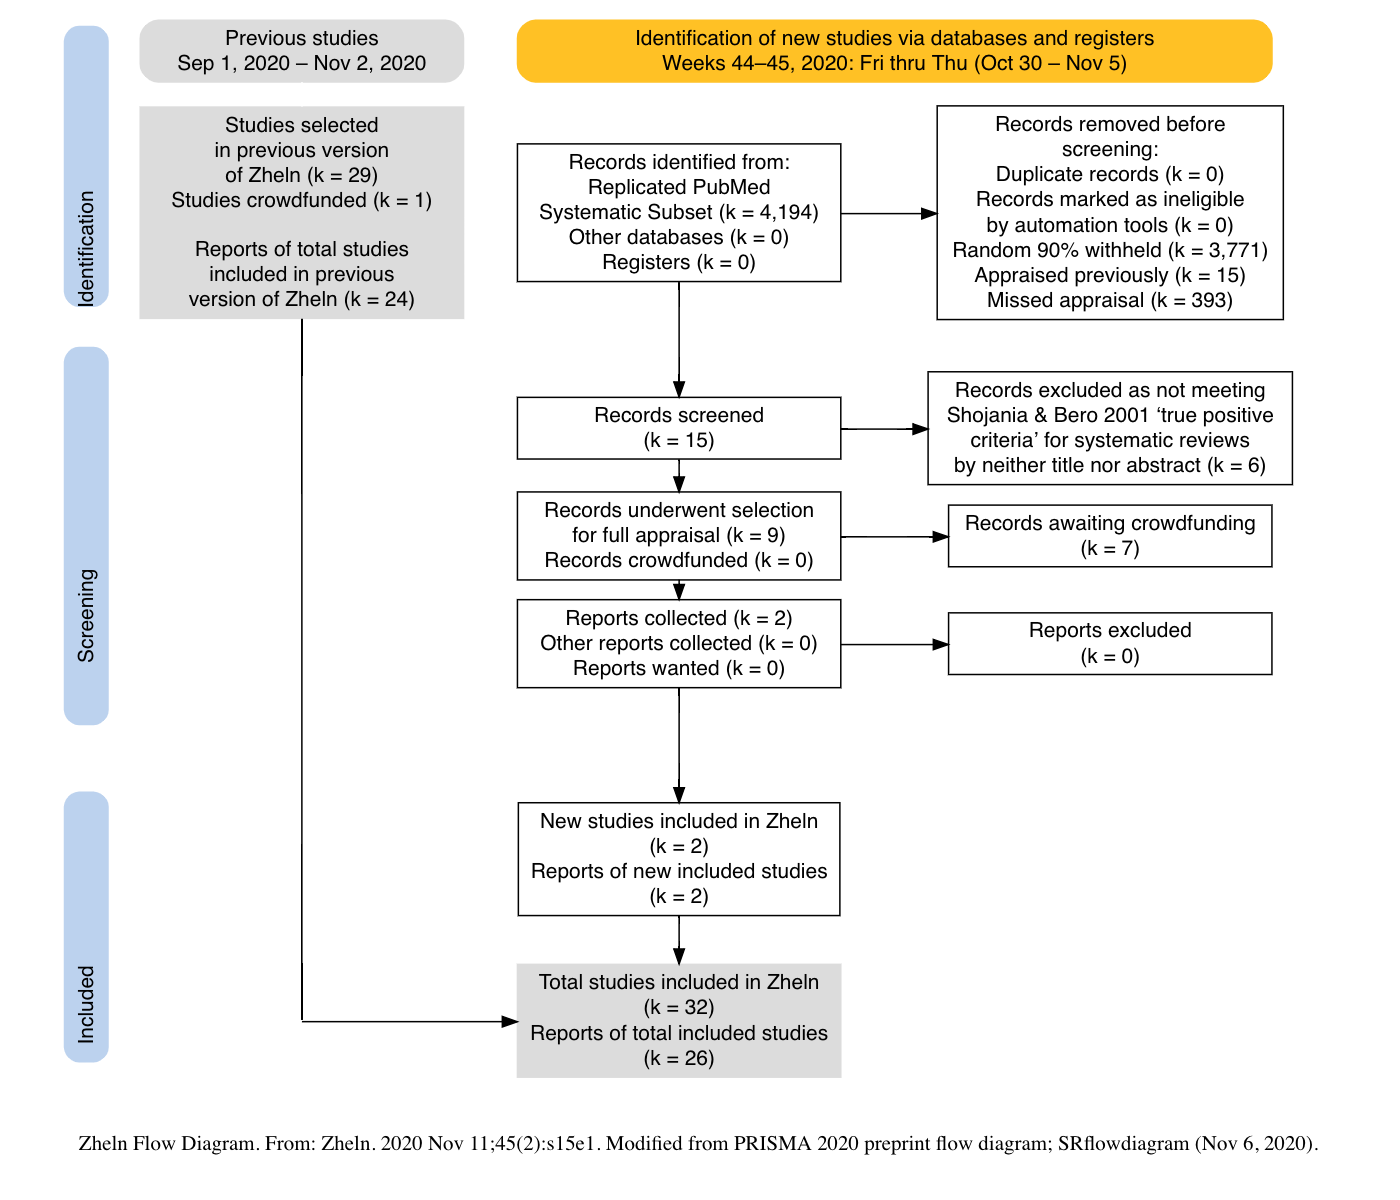
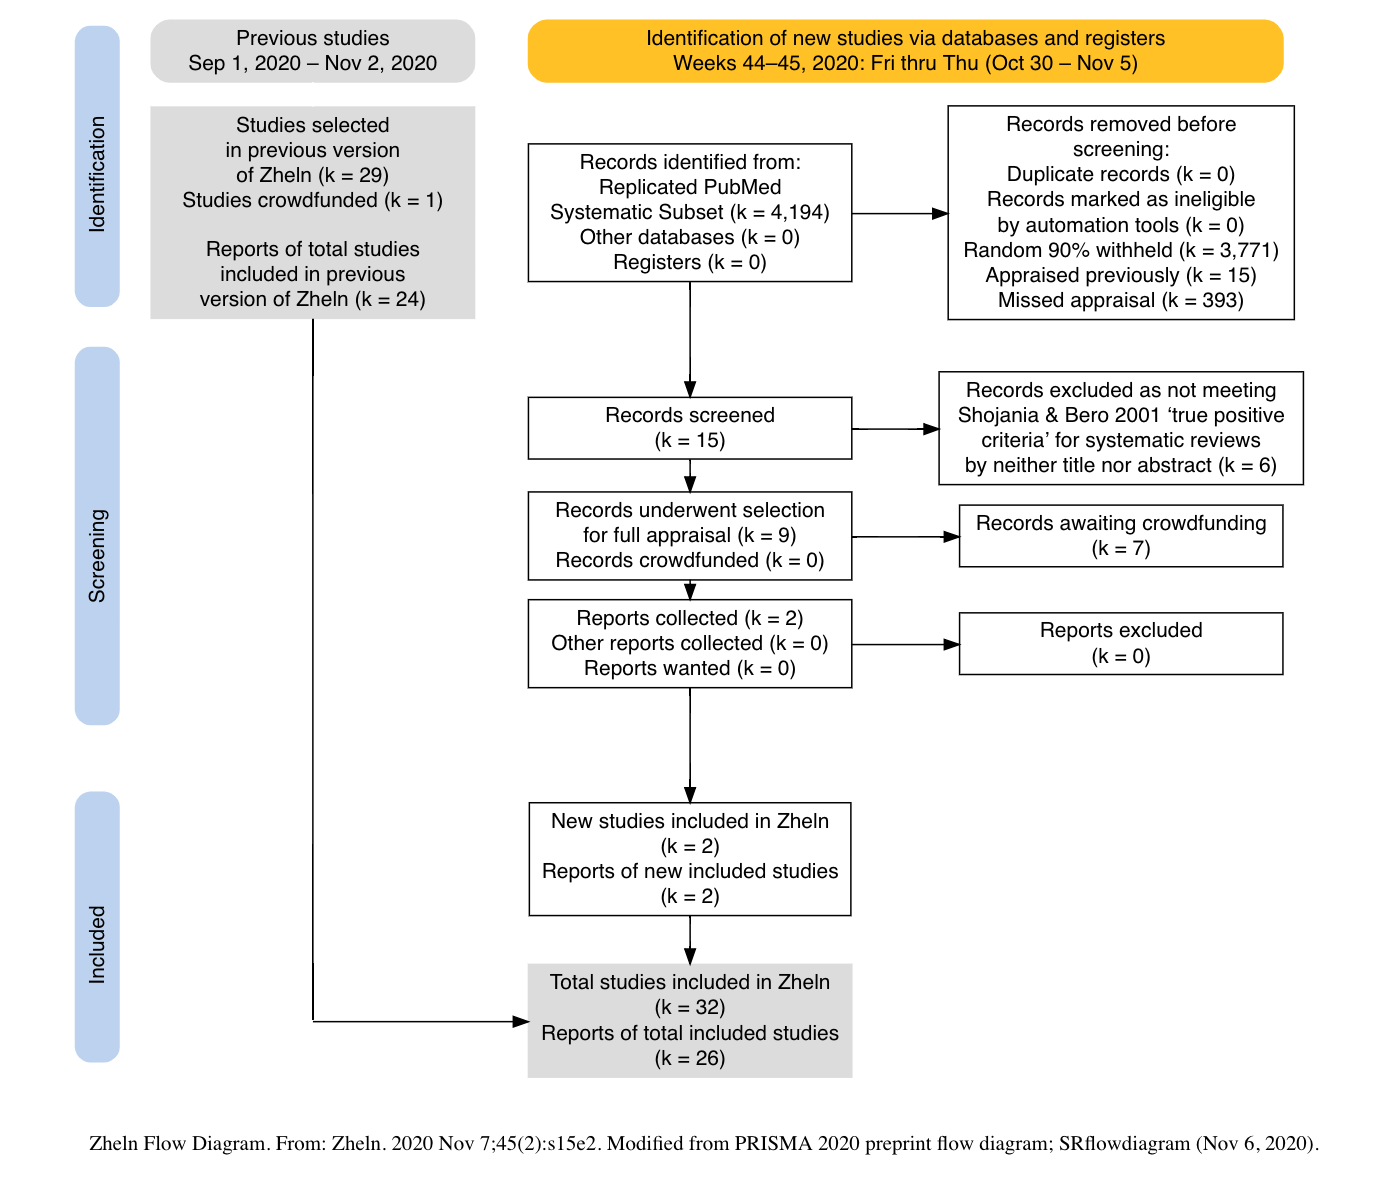
Fix flow diagram layout & label in 15th summary

diff --git a/_posts/summary/2020-11-07-2.md b/_posts/summary/2020-11-07-2.md
@@ -8,7 +8,7 @@ category:   summary
 thumbnail:  woodpecker-inverted
 ---
 
-<small>Zhelnov P. Managing the flow. Zheln. 2020 Nov 11;45(2):s15e1. URI: {{ page.url | absolute_url }}.</small>
+<small>Zhelnov P. Managing the flow. Zheln. 2020 Nov 11;45(2):s15e2. URI: {{ page.url | absolute_url }}.</small>
 
 ## Status Report
 
